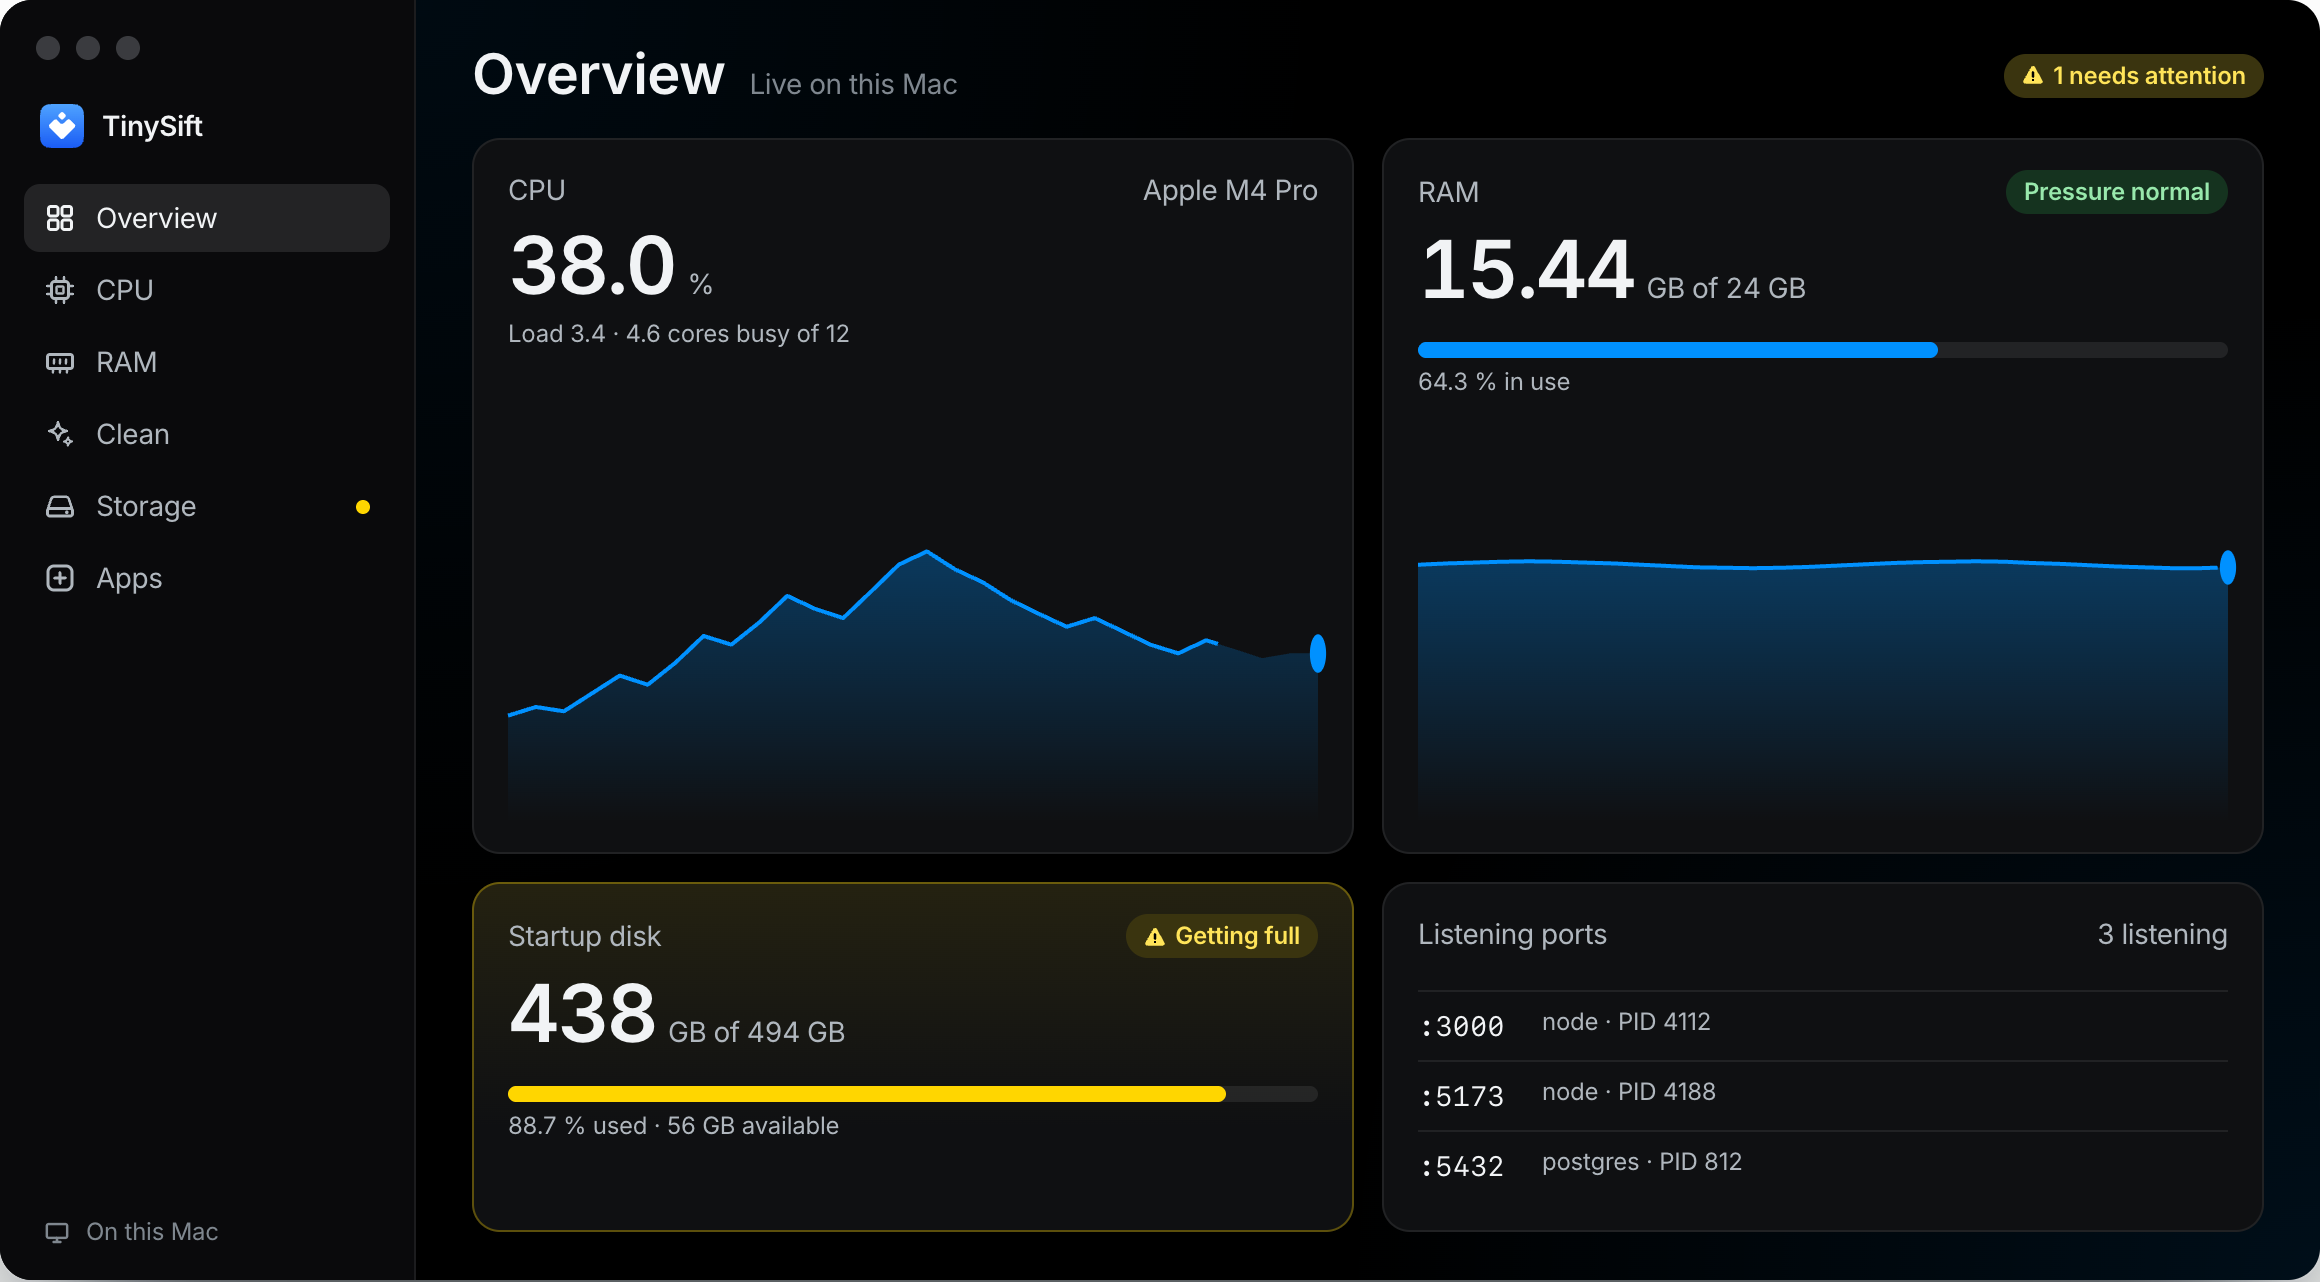
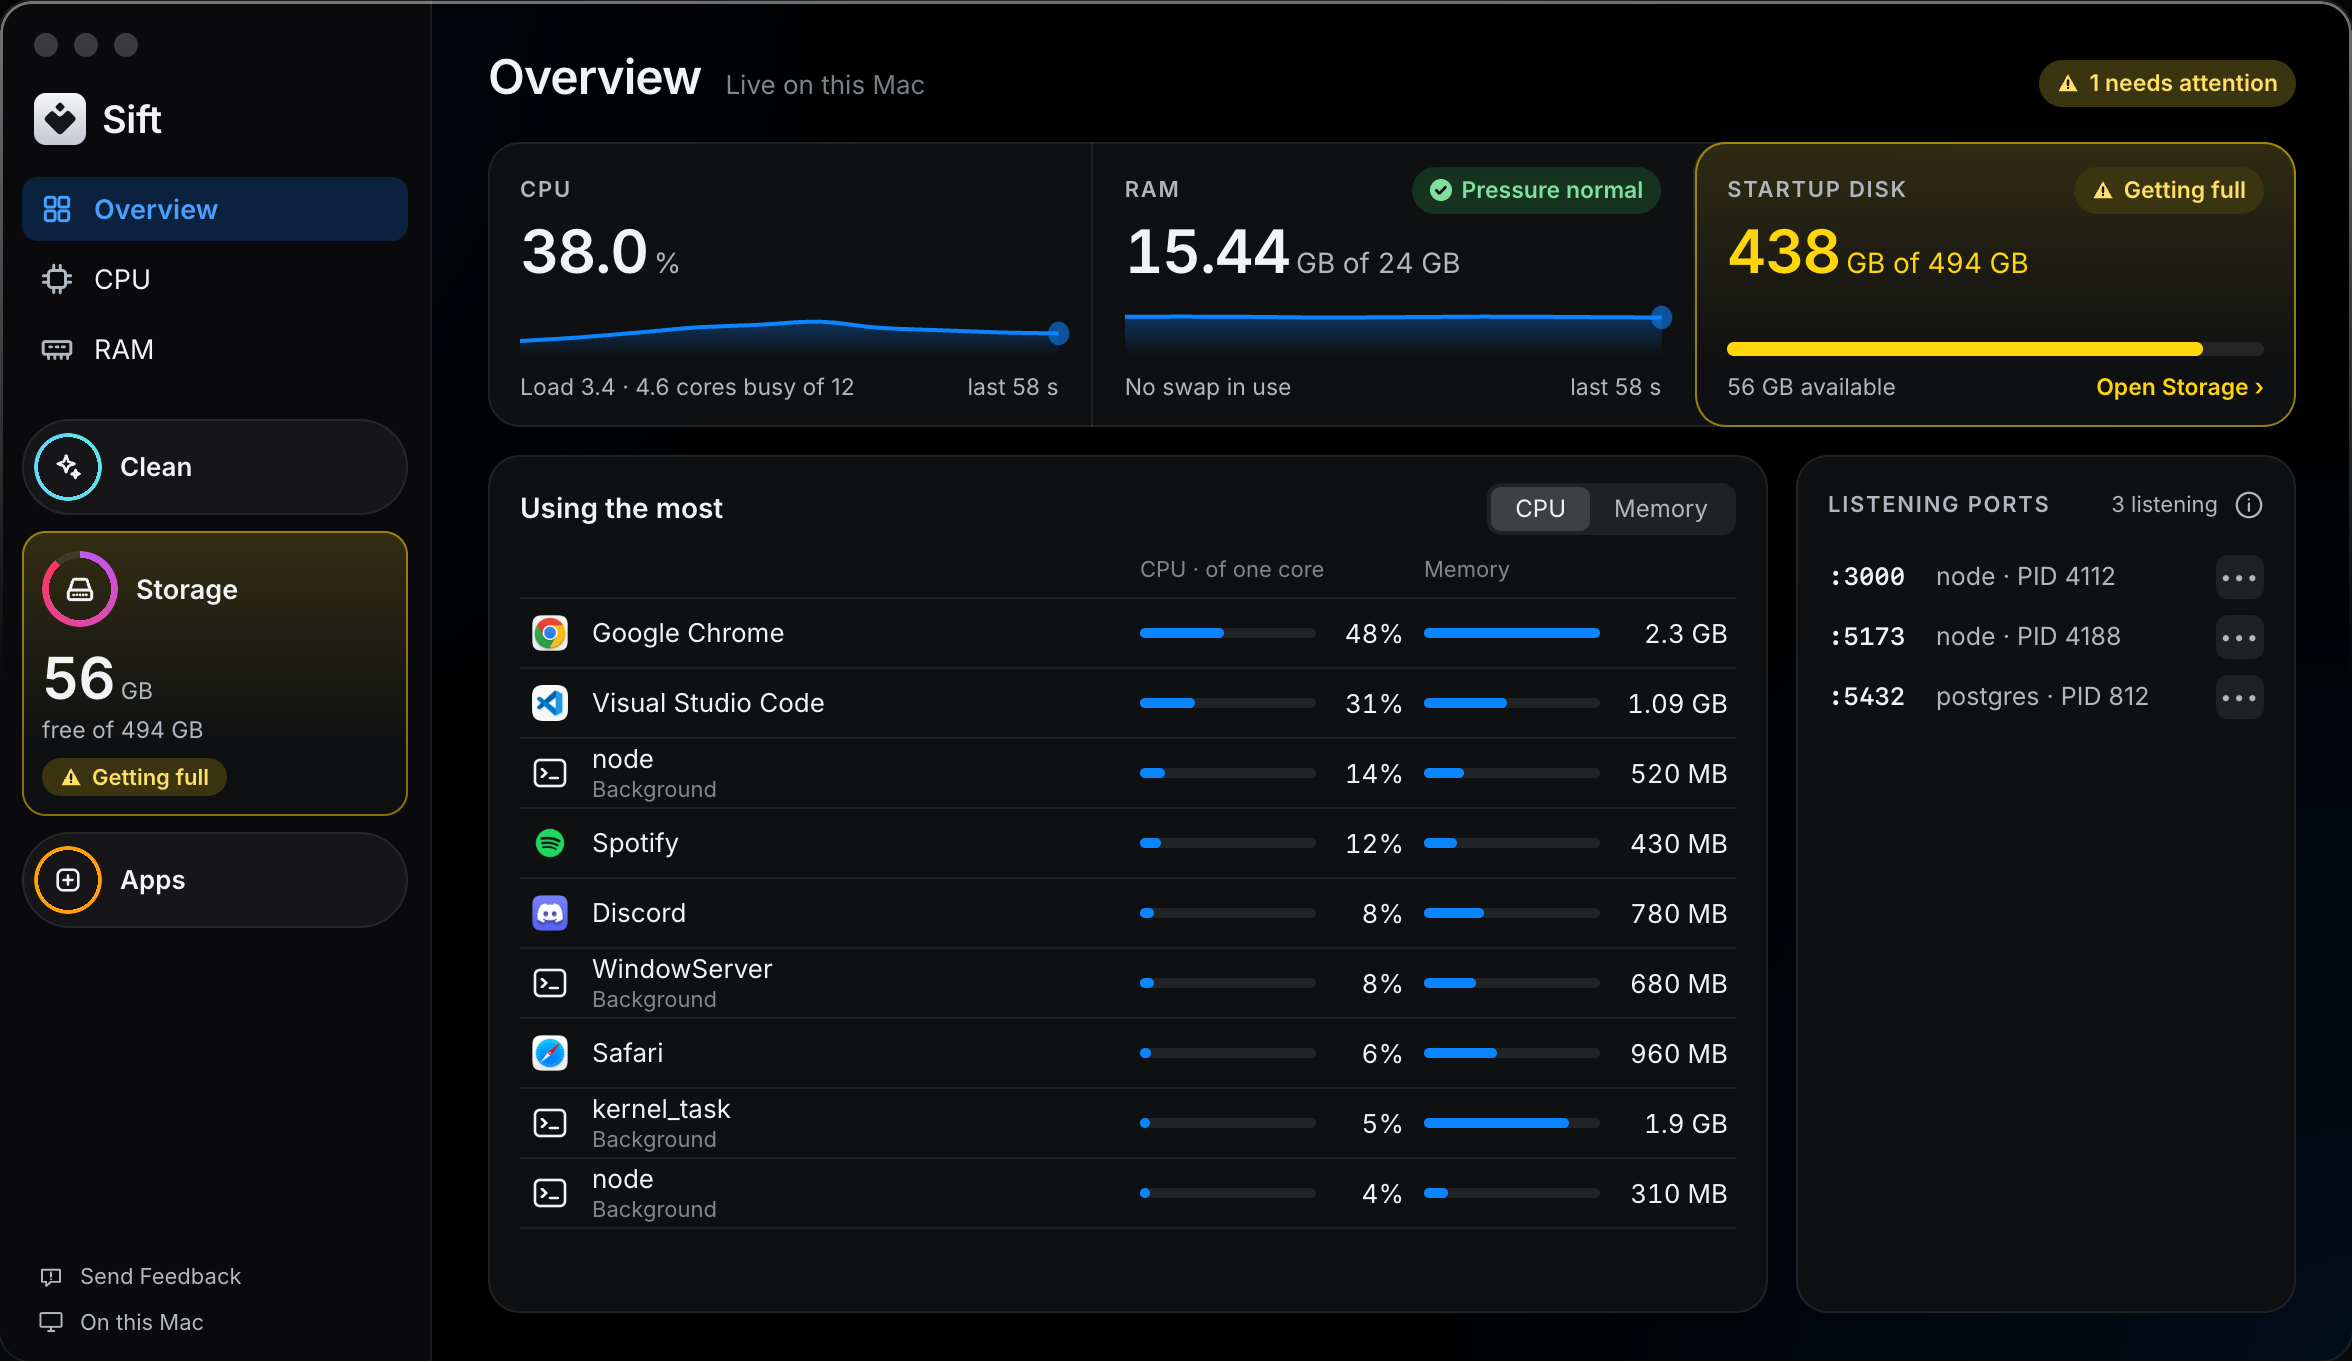
docs(readme): use the landing page Overview stage as the app screenshot
Claude-Session: https://claude.ai/code/session_0156zWNWpcY1KENswUHWp3z8

diff --git a/README.md b/README.md
@@ -17,7 +17,7 @@ your files live.
 
 [Website](https://tinysift.app) · [Download](https://github.com/mxrsv/tinysift/releases) · [Discussions](https://github.com/mxrsv/tinysift/discussions) · [Privacy](https://tinysift.app/privacy)
 
-<img src=".github/readme/app-overview.png" width="860" alt="TinySift Overview: live CPU, memory, startup disk and listening ports">
+<img src=".github/readme/app-overview.png" width="860" alt="TinySift Overview: live CPU, memory and startup disk, the apps using the most, and listening ports">
 
 <sub>Sample data.</sub>
 
